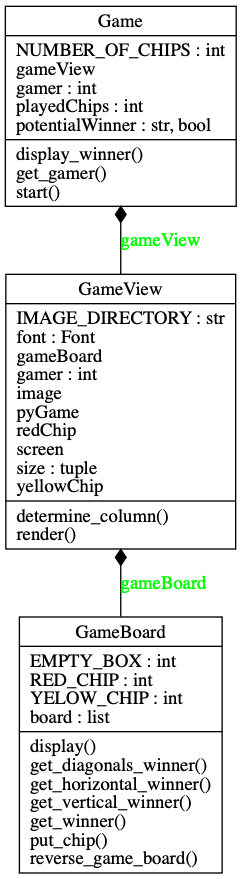
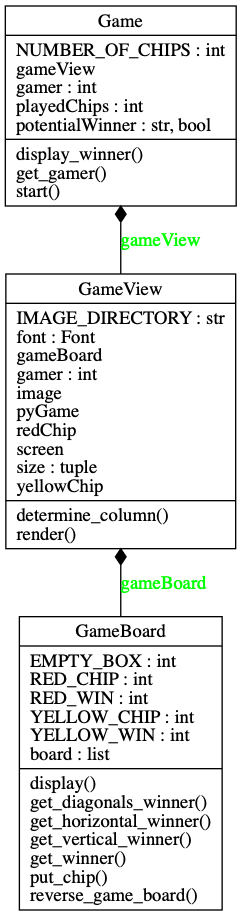
fix, admin:project:fix all small naming issues and add some instructions

Changed region(s): [[0.0, 0.0, 0.9835, 1.0]]

diff --git a/GameBoard.py b/GameBoard.py
@@ -5,7 +5,9 @@
 class GameBoard:
     EMPTY_BOX = 0
     RED_CHIP = -1
-    YELOW_CHIP = 1
+    YELLOW_CHIP = 1
+    YELLOW_WIN = 4
+    RED_WIN = -4
 
     def __init__(self):
         self.board = [
@@ -32,13 +34,13 @@ class GameBoard:
             for column in range(4):# ca nous permet deplacer dans les columns
                 # pourquoi 4 ? 4 possibilites de gagner dans une line
                 # on determine le winner en fonction des valeurs definies dans les 4 columns (que l'on decale grace a la variable column) que l'on regarde pour la line donnee i
-                if self.board[line][column] + self.board[line][column+1] + self.board[line][column+2] + self.board[line][column+3] == 4 :#gamer jaune gagne
+                if self.board[line][column] + self.board[line][column+1] + self.board[line][column+2] + self.board[line][column+3] == GameBoard.YELLOW_WIN:#gamer jaune gagne
                     # on affecte le winner (car on a nom nombre de points)
                     winner = "jaune"
                     print(winner)
                     # vu qu'on a gagne on arrete les parcours
                     stop = True
-                if self.board[line][column] + self.board[line][column+1] + self.board[line][column+2] + self.board[line][column+3] == -4 :#gamer rouge gagne
+                if self.board[line][column] + self.board[line][column+1] + self.board[line][column+2] + self.board[line][column+3] == GameBoard.RED_WIN:#gamer rouge gagne
                     winner="rouge"
                     print(winner)
                     stop = True
@@ -53,12 +55,12 @@ class GameBoard:
         for column in range(7):
             # on descend les lines pour la column concernee, pour verifier s'il y a un winner
             # tant que la line est strictement superieur a 2
-            # 5 4 3 en baissant de -1 (3eme parametre du for)
+            # 5 YELLOW_WINNER 3 en baissant de -1 (3eme parametre du for)
             # c'est plus concis que ce qu'on a au-dessous
             for line in range(5, 2, -1):
-                if self.board[line][column] + self.board[line-1][column] + self.board[line-2][column] + self.board[line-3][column] ==4:
+                if self.board[line][column] + self.board[line-1][column] + self.board[line-2][column] + self.board[line-3][column] == GameBoard.YELLOW_WIN:
                     winner = "jaune"
-                if self.board[line][column] + self.board[line-1][column] + self.board[line-2][column] + self.board[line-3][column] ==-4:
+                if self.board[line][column] + self.board[line-1][column] + self.board[line-2][column] + self.board[line-3][column] == GameBoard.RED_WIN:
                     winner = "rouge"
         return winner
 
@@ -70,18 +72,18 @@ class GameBoard:
             # on avance dans les columns
             for column in range(4):
                 # vu que c'est en meme on avance en diagonale
-                if self.board[line][column] + self.board[line+1][column+1] + self.board[line+2][column+2] + self.board[line+3][column+3] == 4:
+                if self.board[line][column] + self.board[line+1][column+1] + self.board[line+2][column+2] + self.board[line+3][column+3] == GameBoard.YELLOW_WIN:
                     winner = "jaune"
-                if self.board[line][column] + self.board[line+1][column+1] + self.board[line+2][column+2] + self.board[line+3][column+3] == -4:
+                if self.board[line][column] + self.board[line+1][column+1] + self.board[line+2][column+2] + self.board[line+3][column+3] == GameBoard.RED_WIN:
                     winner = "rouge"
         # on va diagonale d'en haut a droite vers en bas a gauche
         for line in range(3):
             # 0 1 2 3, la line a laquelle on commence
             for column in range(3, 7):
                 # 3 4 5 6, on commence a la column 3 pour aller vers la 6
-                if self.board[line][column] + self.board[line+1][column-1] + self.board[line+2][column-2] + self.board[line+3][column-3] == 4:
+                if self.board[line][column] + self.board[line+1][column-1] + self.board[line+2][column-2] + self.board[line+3][column-3] == GameBoard.YELLOW_WIN:
                     winner = "jaune"
-                if self.board[line][column] + self.board[line+1][column-1] + self.board[line+2][column-2] + self.board[line+3][column-3] == -4:
+                if self.board[line][column] + self.board[line+1][column-1] + self.board[line+2][column-2] + self.board[line+3][column-3] == GameBoard.RED_WIN:
                     winner = "rouge"
         return winner
 
@@ -110,7 +112,7 @@ class GameBoard:
             if self.board[line][column] == 0:
                 if gamer == 1:
                     # je mets mon pion jaune
-                    self.board[line][column] = GameBoard.YELOW_CHIP
+                    self.board[line][column] = GameBoard.YELLOW_CHIP
                     # vu que je viens de placer mon pion, je ne vais pas en placer d'autres.
                     stop = True
                 else:

diff --git a/STEPS.md b/STEPS.md
@@ -1,0 +1,67 @@
+## STEPS TO ACHIEVE "Puissance 4" like game
+
+### 1 - Determine objectives
+
+Do a "puissance 4" like game playable by 2 gamers on a computer
+
+### 2 - Understand what we are doing
+
+Understand rules of the game.
+
+game system :
+- put a chip in a column
+- we have 42 chips 
+- we have two colors of chips (yellow and red, same number of chips for each color)
+
+Winning:
+- have a column with 4 following chips horizontally
+- have a column with 4 following chips vertically
+- have a column with 4 following chips in diagonals
+
+### 3 -  Model the game
+
+#### - Model the board
+
+See [GameBoard](GameBoard.py)
+
+
+Take a matrix (or 2d list in our case)
+
+```python
+[
+    [0, 0, 0, 0, 0, 0, 0],
+    [0, 0, 0, 0, 0, 0, 0],
+    [0, 0, 0, 0, 0, 0, 0],
+    [1, 0, 0, 0, 0, 0, 0],
+    [-1, 0, 0, 0, 0, 0, 0],
+    [1, 0, 0, 0, 0, 0, 0]
+]
+```
+
+corresponds to [puissance4_board_example](puissance4_board_example.png)
+
+caption:
+
+- 0 empty box
+- 1 yellow chip
+- -1 red chip
+
+#### - Model the turn system 
+
+- modulo 2 is good to determine the player
+
+#### - Model the wining rules (by summing following box values):
+
+- 1+1+1+1 = **4 yellow win** 
+- -1-1-1-1 = **-4 red win**
+
+This addition work in all possibles directions (vertical, horizontal, diagonals)
+
+### 4 - Manage UX 
+
+See [GameBoard](GameView.py)
+
+### 5 - Link all
+
+See [GameBoard](GameView.py)
+

diff --git a/README.md b/README.md
@@ -19,9 +19,20 @@ Install a venv if needed
     ./venv/bin/python3 main.py
 ``` 
 
+## Course
+
+### "Puissance 4" like game build process
+
+See [STEPS.md](STEPS.md) for details.
+
+### Youtube video (french language)
+
+[Youtube_video_link]()
+
 ## Versioning
 
-We use [git](https://git-scm.com/) for versioning. 
+I use [git](https://git-scm.com/) for versioning. 
+
 
 ## Author
 
